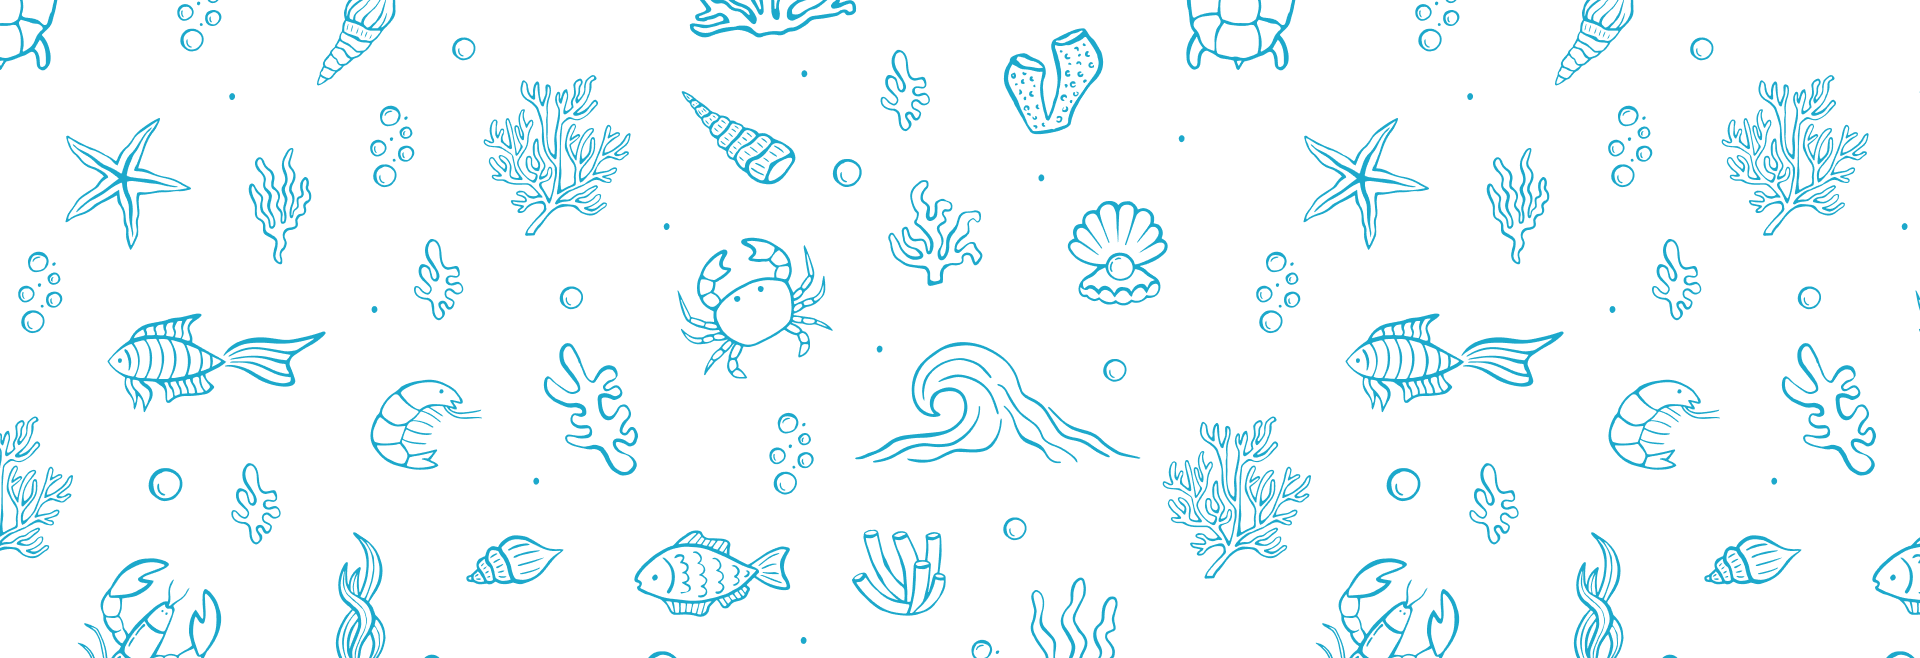
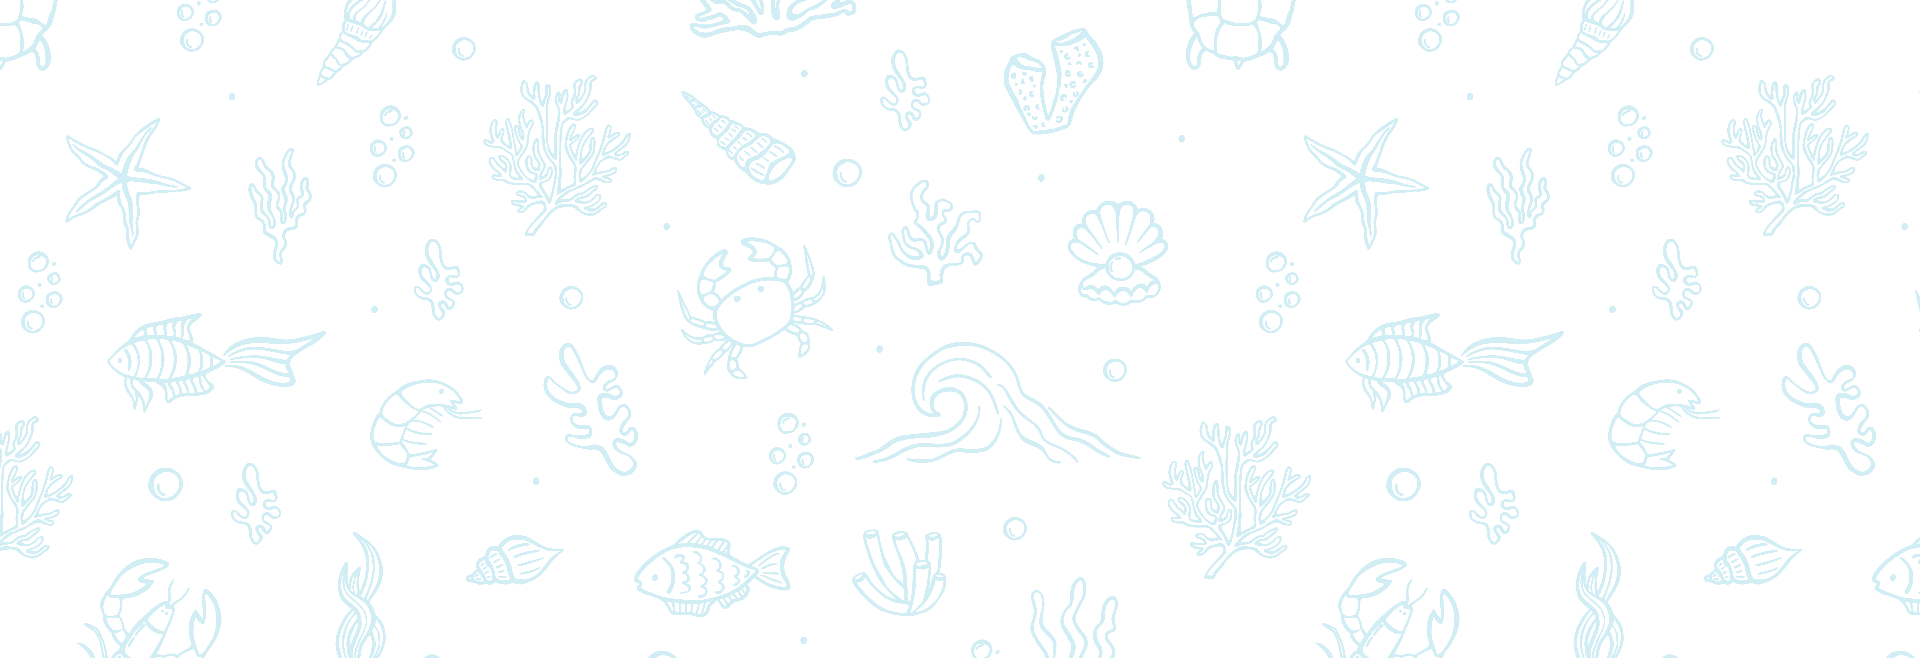
Improve booking date pickers and guest controls
Make check-in/check-out inputs use type="text" when empty so placeholders show, switch to type="date" on focus and attempt to open the native picker (showPicker) on focus/click, and revert to text on blur if empty. Stop event propagation on input clicks. Add placeholders for both date fields. Adjust guests UI: add justify-content-between to the adults control and set explicit width/height/padding on +/- buttons for consistent sizing. Also update the tour_category_bg.png asset.

diff --git a/src/Components/Booking/Booking.jsx b/src/Components/Booking/Booking.jsx
@@ -153,22 +153,52 @@ function Booking() {
                       <ul className="list">
                         <li className="option">
                           <input
-                            type="date"
+                            type={checkInDate ? "date" : "text"}
+                            onFocus={(e) => {
+                              e.target.type = "date";
+                              try {
+                                e.target.showPicker?.();
+                              } catch (err) {}
+                            }}
+                            onBlur={(e) => {
+                              if (!e.target.value) e.target.type = "text";
+                            }}
                             value={checkInDate}
                             onChange={(event) =>
                               setCheckInDate(event.target.value)
                             }
-                            onClick={(event) => event.stopPropagation()}
+                            onClick={(event) => {
+                              event.stopPropagation();
+                              try {
+                                event.target.showPicker?.();
+                              } catch (err) {}
+                            }}
+                            placeholder="Check-in"
                           />
                         </li>
                         <li className="option">
                           <input
-                            type="date"
+                            type={checkOutDate ? "date" : "text"}
+                            onFocus={(e) => {
+                              e.target.type = "date";
+                              try {
+                                e.target.showPicker?.();
+                              } catch (err) {}
+                            }}
+                            onBlur={(e) => {
+                              if (!e.target.value) e.target.type = "text";
+                            }}
                             value={checkOutDate}
                             onChange={(event) =>
                               setCheckOutDate(event.target.value)
                             }
-                            onClick={(event) => event.stopPropagation()}
+                            onClick={(event) => {
+                              event.stopPropagation();
+                              try {
+                                event.target.showPicker?.();
+                              } catch (err) {}
+                            }}
+                            placeholder="Check-out"
                           />
                         </li>
                       </ul>
@@ -200,13 +230,18 @@ function Booking() {
                       <ul className="list">
                         <li className="option d-flex align-items-center justify-content-between">
                           <span>Adults</span>
-                          <div className="d-flex align-items-center gap-2">
+                          <div className="d-flex align-items-center gap-2 justify-content-between">
                             <button
                               type="button"
                               className="th-btn style2"
                               onClick={(event) => {
                                 event.stopPropagation();
                                 updateGuestCount("adults", "decrement");
+                              }}
+                              style={{
+                                width: "20px",
+                                height: "20px",
+                                padding: "7px",
                               }}
                             >
                               -
@@ -218,6 +253,11 @@ function Booking() {
                               onClick={(event) => {
                                 event.stopPropagation();
                                 updateGuestCount("adults", "increment");
+                              }}
+                              style={{
+                                width: "20px",
+                                height: "20px",
+                                padding: "7px",
                               }}
                             >
                               +
@@ -234,6 +274,11 @@ function Booking() {
                                 event.stopPropagation();
                                 updateGuestCount("children", "decrement");
                               }}
+                              style={{
+                                width: "20px",
+                                height: "20px",
+                                padding: "7px",
+                              }}
                             >
                               -
                             </button>
@@ -244,6 +289,11 @@ function Booking() {
                               onClick={(event) => {
                                 event.stopPropagation();
                                 updateGuestCount("children", "increment");
+                              }}
+                              style={{
+                                width: "20px",
+                                height: "20px",
+                                padding: "7px",
                               }}
                             >
                               +
